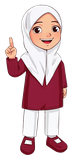
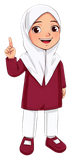
Upscaled official girl character (maroon uniform) at 2x
Claude-Session: https://claude.ai/code/session_01Asp8k66AATSKDCBk3rDYVc

diff --git a/games/index.html b/games/index.html
@@ -11,7 +11,7 @@
 <link rel="apple-touch-icon" href="icon-192.png">
 <meta name="apple-mobile-web-app-capable" content="yes">
 <meta name="mobile-web-app-capable" content="yes">
-<link rel="stylesheet" href="games.css?v=52">
+<link rel="stylesheet" href="games.css?v=53">
 <link rel="stylesheet" href="offline.css?v=1">
 </head>
 <body>
